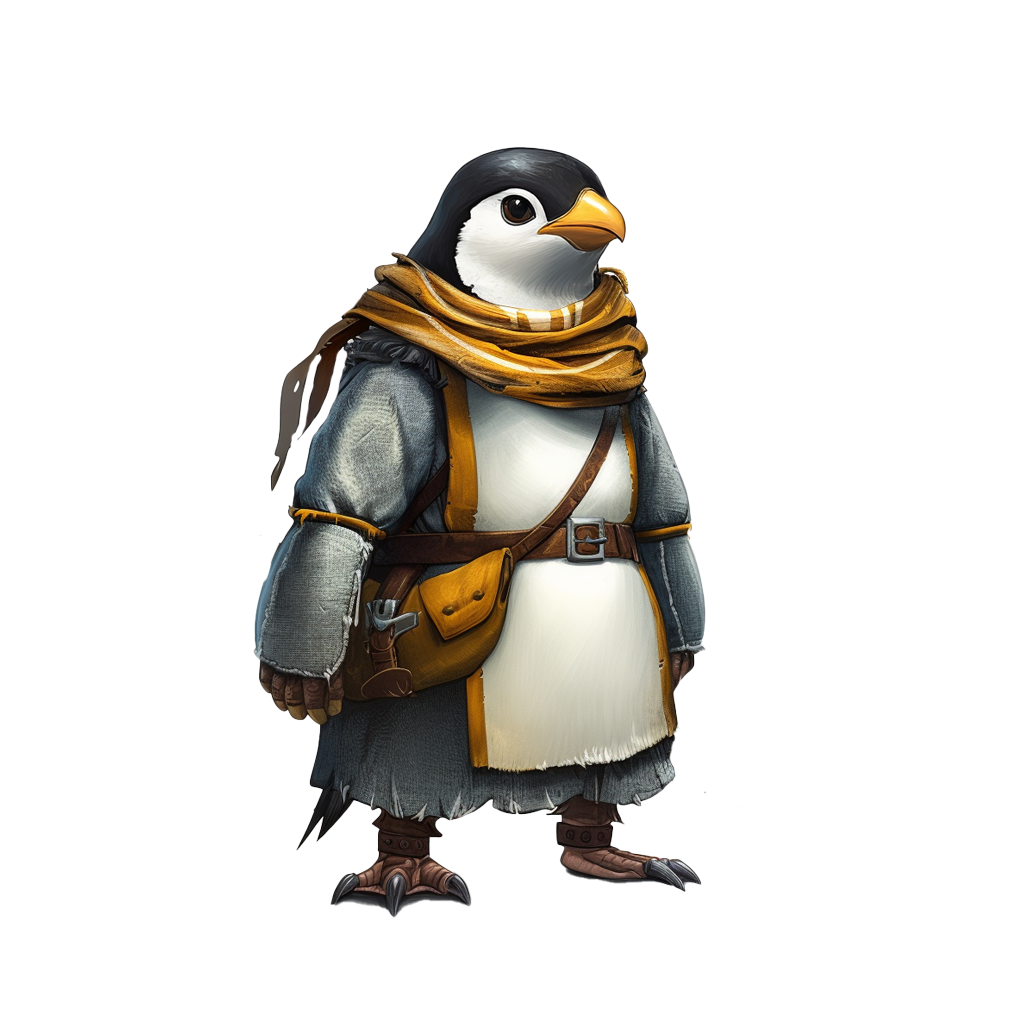
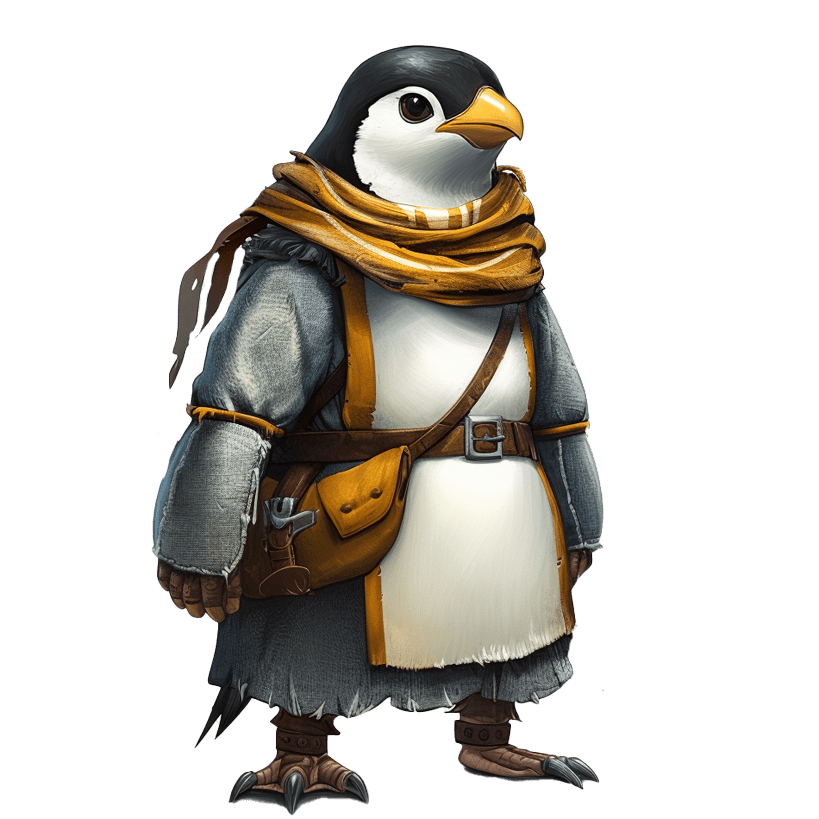
Add: adjacent and smaller styles

Changed region(s): [[0.1832, 0.0305, 0.7631, 1.0]]

diff --git a/src/legends/modules/character/screens/components/CharacterSlider/CharacterSlider.module.scss b/src/legends/modules/character/screens/components/CharacterSlider/CharacterSlider.module.scss
@@ -27,13 +27,17 @@
             justify-content: center;
             transition: transform 0.3s ease-in-out, opacity 0.3s ease-in-out;
             filter: brightness(0);
-            transform: scale(0.95);
+
+            flex-grow: 0;
+            flex-basis: 10rem;
 
             &.selected {
                 z-index: 2;          
                 filter: brightness(1);
                 height: 30rem;
                 transform: scale(1.2);
+                flex-grow: 3; 
+                flex-basis: 16rem; 
                
                 .characterRelativeWrapper {
                     position: relative;
@@ -58,7 +62,21 @@
                     }
                 }
             } 
-            
+
+            &.adjacent {
+                opacity: 0.5;
+                flex-grow: 2; 
+                flex-basis: 12rem;
+                transform: scale(1);
+              }
+        
+              &.smaller {
+                opacity: 0.5;
+                flex-grow: 1; 
+                flex-basis: 8rem;
+                transform: scale(0.8);
+            }
+              
          
         }
 

diff --git a/src/legends/modules/character/screens/components/CharacterSlider/CharacterSlider.tsx b/src/legends/modules/character/screens/components/CharacterSlider/CharacterSlider.tsx
@@ -66,6 +66,17 @@ const CharacterSlider = () => {
 
   const getClass = (index) => {
     if (index === currentIndex) return styles.selected
+    if (
+      index === (currentIndex + 1) % characters.length ||
+      (currentIndex === characters.length - 1 && index === 0)
+    )
+      return styles.adjacent
+    if (
+      index === (currentIndex - 1 + characters.length) % characters.length ||
+      (currentIndex === 0 && index === characters.length - 1)
+    )
+      return styles.adjacent
+    return styles.smaller
   }
 
   return (
